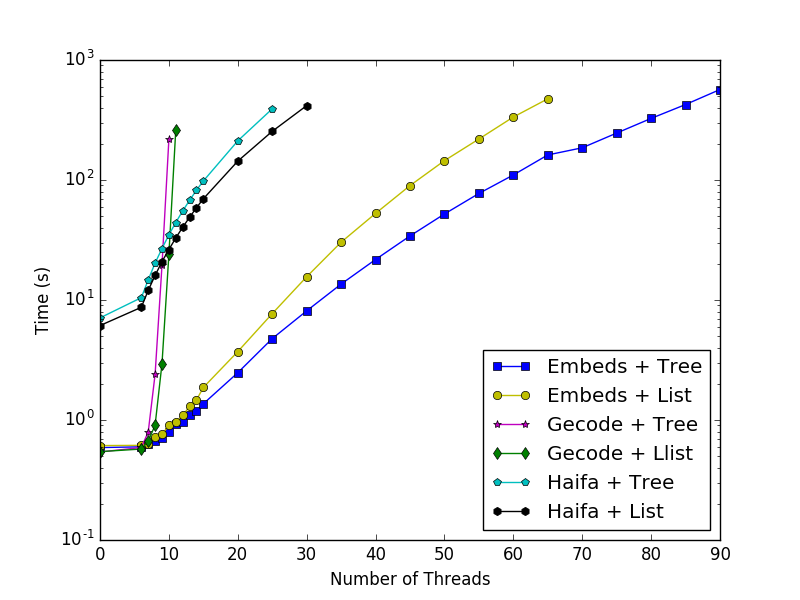
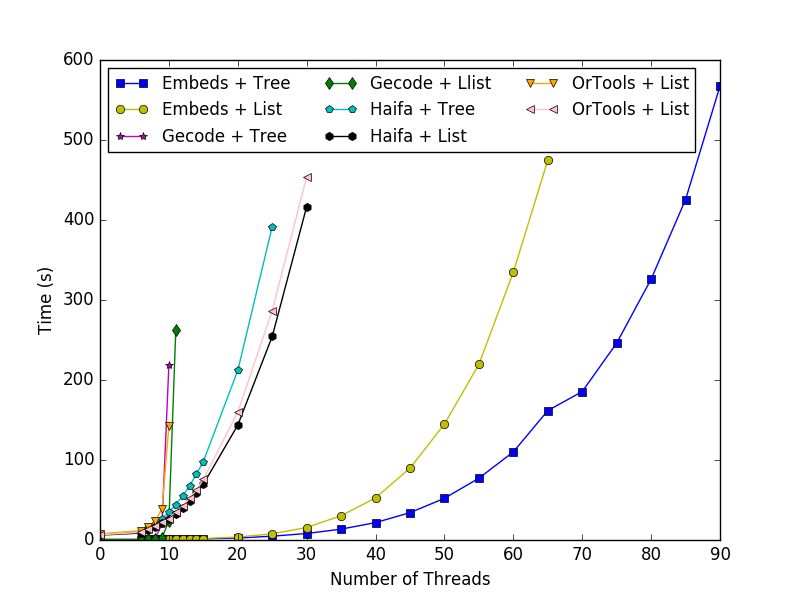
Adds ortools to count-threads benchmark

diff --git a/test_tree/code/threader/qrcu.c b/test_tree/code/threader/qrcu.c
@@ -7,6 +7,18 @@ int readerprogress1, readerprogress2; // byte readerprogress[N_QRCU_READERS];
 int mutex; // bit mutex = 0; updates are done in critical section, only one writer at a time
 int NONDET;
 
+#define acquire(l) \
+  __VERIFIER_atomic_begin(); \
+  assume (l == 0); \
+  l = 1; \
+  __VERIFIER_atomic_end()
+
+#define release(l) \
+  __VERIFIER_atomic_begin(); \
+  assert (l == 1); \
+  l = 0; \
+  __VERIFIER_atomic_end()
+
 void* qrcu_reader1(void* arg) {
   int myidx;
   
@@ -14,18 +26,20 @@ void* qrcu_reader1(void* arg) {
   while (1) {
     myidx = idx;
     if (NONDET) {
-      { __blockattribute__((atomic))
+      { __VERIFIER_atomic_begin();
 	assume(myidx <= 0);
 	assume(ctr1>0);
 	ctr1++;
+	__VERIFIER_atomic_end();
       }
       break;
     } else {
       if (NONDET) {
-	{ __blockattribute__((atomic))
+	{ __VERIFIER_atomic_begin();
 	  assume(myidx > 0);
 	  assume(ctr2>0);
 	  ctr2++;
+          __VERIFIER_atomic_end();
 	}
 	break;
       } else {}
@@ -47,9 +61,10 @@ void* qrcu_reader1(void* arg) {
   readerprogress1 = 2; /*** readerprogress[me] = 2 ***/
 
   /* rcu_read_unlock */
-  { __blockattribute__((atomic))
+  { __VERIFIER_atomic_begin();
       if (myidx <= 0) { ctr1--; } // use ctr1
       else { ctr2--; } // use ctr2
+    __VERIFIER_atomic_end();
   }
   return NULL;
 }
@@ -78,9 +93,10 @@ void* qrcu_updater(void* arg) {
   glb_init(mutex==0);  
 
   /* Snapshot reader state. */
-  { __blockattribute__((atomic))
+  { __VERIFIER_atomic_begin();
       readerstart1 = readerprogress1;
       readerstart2 = readerprogress2;
+    __VERIFIER_atomic_end();
   }
 
   sum_unordered;
@@ -95,7 +111,7 @@ void* qrcu_updater(void* arg) {
   }
 
   /* Verify reader progress. */
-  { __blockattribute__((atomic))
+  { __VERIFIER_atomic_begin();
       if (NONDET) {
 	assume(readerstart1 == 1);
 	assume(readerprogress1 == 1);
@@ -107,6 +123,7 @@ void* qrcu_updater(void* arg) {
 	  assert(0);
 	} else { }
       }
+    __VERIFIER_atomic_end();
   }
   /* Frontend generates too many transitions:
   { __blockattribute__((atomic))
@@ -128,18 +145,20 @@ void* qrcu_reader2(void* arg) {
   while (1) {
     myidx = idx;
     if (NONDET) {
-      { __blockattribute__((atomic))
+      { __VERIFIER_atomic_begin();
 	assume(myidx <= 0);
 	assume(ctr1>0);
 	ctr1++;
+        __VERIFIER_atomic_end();
       }
       break;
     } else {
       if (NONDET) {
-	{ __blockattribute__((atomic))
+	{ __VERIFIER_atomic_begin();
 	  assume(myidx > 0);
 	  assume(ctr2>0);
 	  ctr2++;
+          __VERIFIER_atomic_end();
 	}
 	break;
       } else {}
@@ -150,17 +169,19 @@ void* qrcu_reader2(void* arg) {
   readerprogress2 = 2; /*** readerprogress[me] = 2 ***/
 
   /* rcu_read_unlock */
-  { __blockattribute__((atomic))
+  { __VERIFIER_atomic_begin();
       if (myidx <= 0) { ctr1--; } // use ctr1
       else { ctr2--; } // use ctr2
+    __VERIFIER_atomic_end();
   }
   return NULL;
 }
 
 #define acquire_thread_id(tid, l) \
-  { __blockattribute__((atomic)) \
+  { __VERIFIER_atomic_begin(); \
     assume(l==0); \
     l = tid; \
+    __VERIFIER_atomic_end(); \
   }
 
 void main() {

diff --git a/test_tree/code/threader/lu-fig2.fixed.c b/test_tree/code/threader/lu-fig2.fixed.c
@@ -5,17 +5,30 @@ int start_main=0;
 int mStartLock=0;
 int __COUNT__ =0;
 
+#define acquire(l) \
+  __VERIFIER_atomic_begin(); \
+  assume (l == 0); \
+  l = 1; \
+  __VERIFIER_atomic_end()
+
+#define release(l) \
+  __VERIFIER_atomic_begin(); \
+  assert (l == 1);
+  l = 0; \
+  __VERIFIER_atomic_end()
+
 
 void* thread1(void* arg) { //nsThread::Init (mozilla/xpcom/threads/nsThread.cpp 1.31)
 
   int PR_CreateThread__RES = 1;
   acquire(mStartLock);
   start_main=1;
-  { __blockattribute__((atomic))
+  { __VERIFIER_atomic_begin();
       if( __COUNT__ == 0 ) { // atomic check(0);
 	mThread = PR_CreateThread__RES; 
 	__COUNT__ = __COUNT__ + 1; 
       } else { assert(0); } 
+    __VERIFIER_atomic_end();
   }
   release(mStartLock);
   if (mThread == 0) { return -1; }
@@ -29,11 +42,12 @@ void* thread2(void* arg) { //nsThread::Main (mozilla/xpcom/threads/nsThread.cpp 
   while (start_main==0);
   acquire(mStartLock);
   release(mStartLock);
-  { __blockattribute__((atomic))
+  { __VERIFIER_atomic_begin();
       if( __COUNT__ == 1 ) { // atomic check(1);
 	int rv = self; // self->RegisterThreadSelf();
 	__COUNT__ = __COUNT__ + 1;
       } else { assert(0); } 
+    __VERIFIER_atomic_end();
   }
   return NULL;
 }

diff --git a/test_tree/code/threader/lu-fig4-complete.fixed.c b/test_tree/code/threader/lu-fig4-complete.fixed.c
@@ -52,13 +52,14 @@ PRInt32 readWriteProc(PRFileDesc fd, void buf, PRUint32 bytes, IOOperation op)
 			if ( bytes > 20480L )
 			{
 				doingAsync = PR_TRUE;
-				{ __blockattribute__((atomic))
+				{ __VERIFIER_atomic_begin();
 				if (__COUNT__ == 0) {
 				  me_io_pending = PR_TRUE; // check for order violation
 				  __COUNT__ = __COUNT__ + 1;
 				} else {
 				  assert(0);
 				}
+				  __VERIFIER_atomic_end();
 				}
 				__START_ASYNC__ = True; // second thread can start
 				(void)PBReadAsync(pbAsync_pb);
@@ -128,13 +129,14 @@ inline void DoneWaitingOnThisThread(PRThread thread)
 
 	_PR_INTSOFF(is);
 	PR_Lock(thread_md_asyncIOLock);
-	{ __blockattribute__((atomic))
+	{ __VERIFIER_atomic_begin();
 	if (__COUNT__ == 1) {
 	  thread_io_pending = PR_FALSE; // check for order violation
 	  __COUNT__ = __COUNT__ + 1;
 	} else {
 	  assert(0);
 	}
+          __VERIFIER_atomic_end();
 	}
 	// let the waiting thread know that async IO completed 
 	PR_NotifyCondVar(thread_md_asyncIOCVar);

diff --git a/test_tree/code/threader/lu-fig4-complete.c b/test_tree/code/threader/lu-fig4-complete.c
@@ -53,13 +53,14 @@ PRInt32 readWriteProc(PRFileDesc fd, void buf, PRUint32 bytes, IOOperation op)
 			{
 				doingAsync = PR_TRUE;
 				__START_ASYNC__ = True; // second thread can start
-				{ __blockattribute__((atomic))
+				{ __VERIFIER_atomic_begin();
 				if (__COUNT__ == 0) {
 				  me_io_pending = PR_TRUE; // check for order violation
 				  __COUNT__ = __COUNT__ + 1;
 				} else {
 				  assert(0);
 				}
+				  __VERIFIER_atomic_end();
 				}
 				(void)PBReadAsync(pbAsync_pb);
 			}
@@ -128,13 +129,14 @@ inline void DoneWaitingOnThisThread(PRThread thread)
 
 	_PR_INTSOFF(is);
 	PR_Lock(thread_md_asyncIOLock);
-	{ __blockattribute__((atomic))
+	{ __VERIFIER_atomic_begin();
 	if (__COUNT__ == 1) {
 	  thread_io_pending = PR_FALSE; // check for order violation
 	  __COUNT__ = __COUNT__ + 1;
 	} else {
 	  assert(0);
 	}
+          __VERIFIER_atomic_end();
 	}
 	// let the waiting thread know that async IO completed 
 	PR_NotifyCondVar(thread_md_asyncIOCVar);

diff --git a/test_tree/code/threader/lu-fig2.c b/test_tree/code/threader/lu-fig2.c
@@ -6,14 +6,15 @@ int __COUNT__ =0;
 
 
 void* thread1(void* arg) { //nsThread::Init (mozilla/xpcom/threads/nsThread.cpp 1.30)
-  
+
   int PR_CreateThread__RES = 1;
   start_main=1;
-  { __blockattribute__((atomic))
+  { __VERIFIER_atomic_begin();
       if( __COUNT__ == 0 ) { // atomic check(0);
 	mThread = PR_CreateThread__RES; 
 	__COUNT__ = __COUNT__ + 1; 
       } else { assert(0); } 
+    __VERIFIER_atomic_end();
   }
   if (mThread == 0) { return -1; }
   else { return 0; }
@@ -24,11 +25,12 @@ void* thread2(void* arg) { //nsThread::Main (mozilla/xpcom/threads/nsThread.cpp 
 
   int self = mThread;
   while (start_main==0);
-  { __blockattribute__((atomic))
+  { __VERIFIER_atomic_begin();
       if( __COUNT__ == 1 ) { // atomic check(1);
 	int rv = self; // self->RegisterThreadSelf();
 	__COUNT__ = __COUNT__ + 1;
       } else { assert(0); } 
+   __VERIFIER_atomic_end();
   }
   return NULL;
 }

diff --git a/test_tree/results/count_plot.py b/test_tree/results/count_plot.py
@@ -35,11 +35,14 @@ plot(data[3], '-m*', label='Gecode + Tree')
 plot(data[4], '-gd', label='Gecode + Llist')
 plot(data[5], '-cp', label='Haifa + Tree')
 plot(data[6], '-kh', label='Haifa + List')
+plot(data[7], '-v', color="orange", label='OrTools + List')
+plot(data[8], '-<', color="pink", label='OrTools + List')
 # s - square, v ^ < > - triangles, o - circe, p - pentagon, * - star, h H - hexagon, x - x, d D - diamond
 
 plt.xlabel('Number of Threads')
 plt.ylabel('Time (s)')
-plt.yscale('log')
+plt.ylim((0,TO))
+#plt.yscale('log')
 #plt.legend(bbox_to_anchor=(0.38,1.0), loc=2)
-plt.legend(loc=0)
+plt.legend(loc=0, ncol=3, fontsize=12)
 plt.show()

diff --git a/test_tree/code/threader/read_write_lock.c b/test_tree/code/threader/read_write_lock.c
@@ -5,10 +5,11 @@ int w, r, x, y;
 void* thread1(void* arg) { //writer
   glb_init(w==0);
   glb_init(r==0);
-  { __blockattribute__((atomic))
+  { __VERIFIER_atomic_begin();
     assume(w==0);
     assume(r==0);
     w = 1;
+    __VERIFIER_atomic_end();
   }
   x = 3;
   w = 0;
@@ -16,9 +17,10 @@ void* thread1(void* arg) { //writer
 }
 
 void* thread2(void* arg) { //reader
-  { __blockattribute__((atomic))
+  { __VERIFIER_atomic_begin();
     assume(w==0);
     r = r+1;
+    __VERIFIER_atomic_end();
   }
   y = x;
   assert(y == x);

diff --git a/test_tree/code/threader/time_var_mutex.c b/test_tree/code/threader/time_var_mutex.c
@@ -6,6 +6,18 @@ int inode;
 int m_inode=0; // protects the inode
 int m_busy=0; // protects the busy flag
 
+#define acquire(l) \
+  __VERIFIER_atomic_begin(); \
+  assume (l == 0); \
+  l = 1; \
+  __VERIFIER_atomic_end()
+
+#define release(l) \
+  __VERIFIER_atomic_begin(); \
+  assert (l == 1); \
+  l = 0; \
+  __VERIFIER_atomic_end()
+
 void* thr1(void* arg){
   glb_init(inode == busy);
   acquire(m_inode);

diff --git a/test_tree/code/threader/spin2003-cex.c b/test_tree/code/threader/spin2003-cex.c
@@ -2,6 +2,18 @@
 
 int x=1, m=0; // the init values are ignored
 
+#define acquire(l) \
+  __VERIFIER_atomic_begin(); \
+  assume (l == 0); \
+  l = 1; \
+  __VERIFIER_atomic_end()
+
+#define release(l) \
+  __VERIFIER_atomic_begin(); \
+  assert (l == 1); \
+  l = 0; \
+  __VERIFIER_atomic_end()
+
 void* thr(void* arg) {
   m = 0;
   acquire(m); // m=0 /\ m'=1

diff --git a/test_tree/code/threader/spin2003.c b/test_tree/code/threader/spin2003.c
@@ -2,6 +2,18 @@
 
 int x=1, m=0;
 
+#define acquire(l) \
+  __VERIFIER_atomic_begin(); \
+  assume (l == 0); \
+  l = 1; \
+  __VERIFIER_atomic_end()
+
+#define release(l) \
+  __VERIFIER_atomic_begin(); \
+  assert (l == 1); \
+  l = 0;
+  __VERIFIER_atomic_end()
+
 void* thr(void* arg) {
   acquire(m); // m=0 /\ m'=1
   x = 0;
